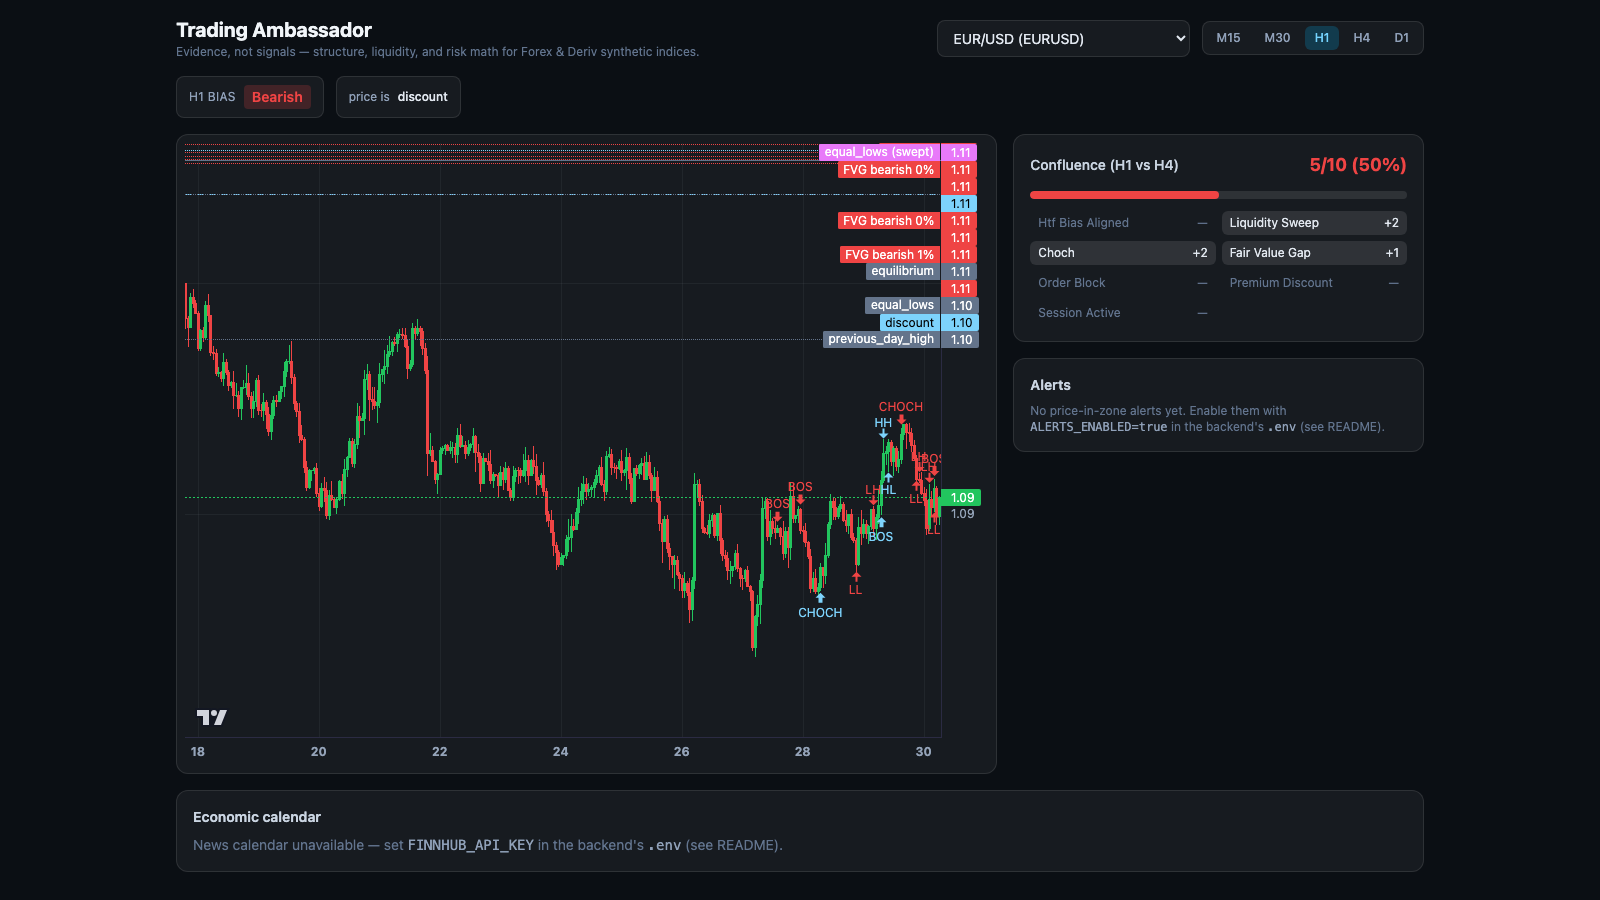
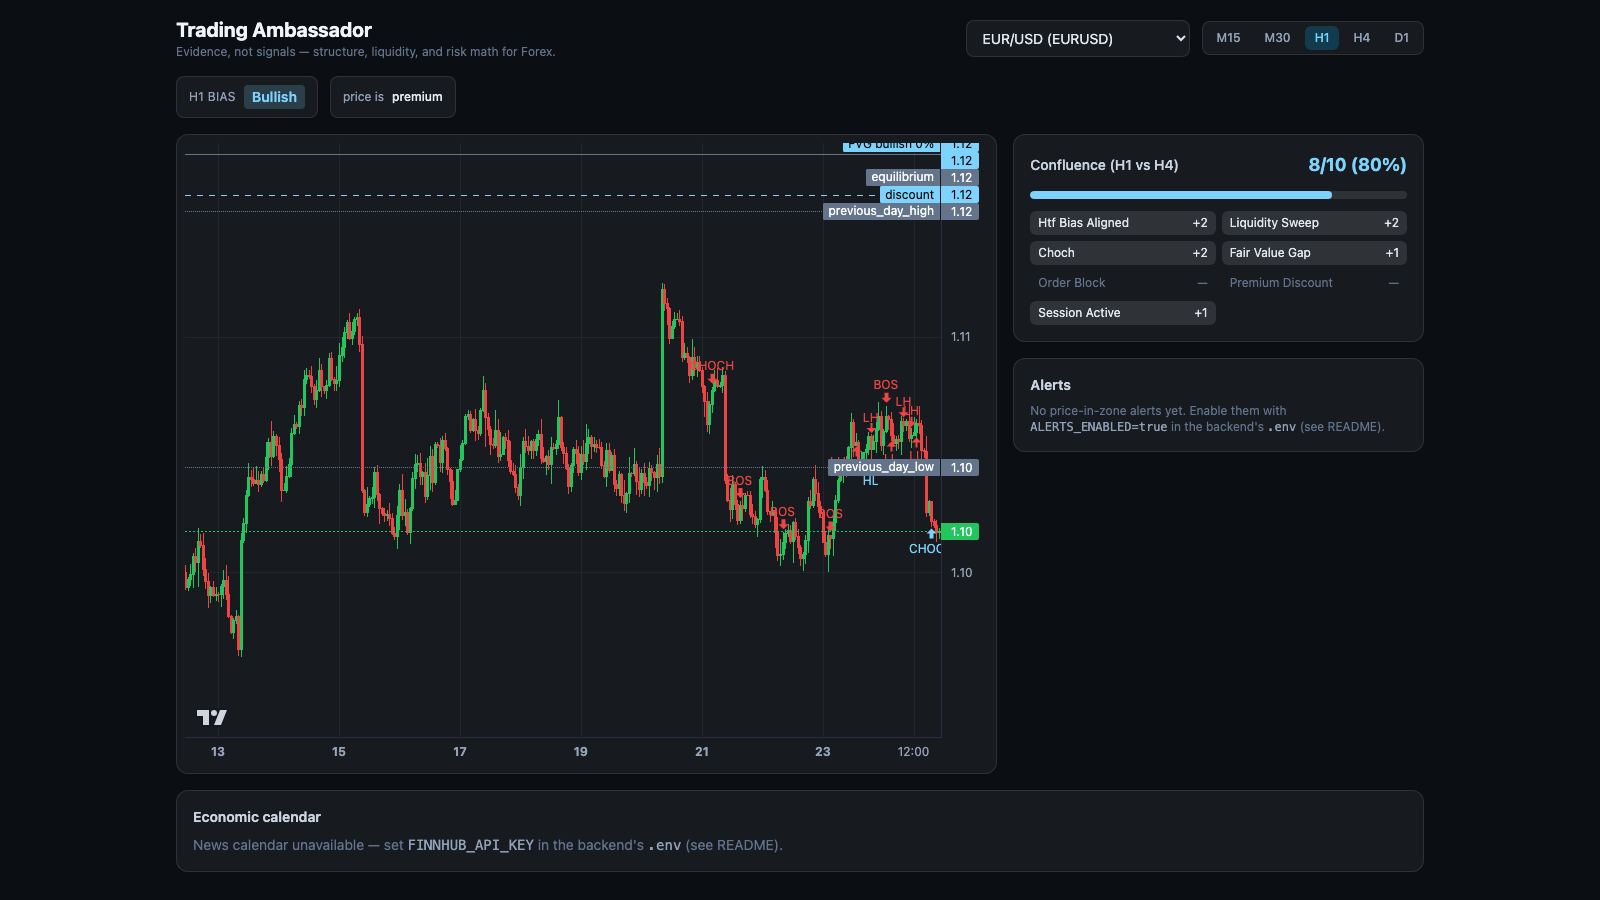
Refresh README and demo screenshots, document Deriv app_id reliability
Demo screenshots were stale (still showed the old "Forex & Deriv
synthetic indices" tagline from before the scope narrowed to Forex-only).
Replaced with fresh captures, added a phone-width screenshot, and
re-linked the plot_analysis.py demo image that had gone unreferenced.

Documented what actually caused the "Deriv API down" issue: the shared
public demo app_id (1089) gets overloaded from being used by countless
unrelated tutorials, not a real outage - registering a personal app_id is
the real fix. Added that note everywhere the app_id is mentioned
(config.py, .env.example, README) so it's not rediscovered from scratch
next time. Also documented LAN/phone access (vite.config.ts's
server.host: true) in the README, and fixed a few more leftover
synthetic-index mentions the earlier scope-narrowing pass missed.

diff --git a/backend/app/config.py b/backend/app/config.py
@@ -119,14 +119,16 @@ class Settings(BaseSettings):
     confluence_weight_session: int = 1
 
     # --- Market data provider ---------------------------------------------
-    # "mock" (default, zero setup) or "deriv" (live data via Deriv's public
-    # WebSocket API — covers both Forex majors and the synthetic indices,
-    # see app/market_data/deriv_provider.py). Chosen over MetaTrader5
-    # because MT5's official Python package is Windows-only.
+    # "mock" (default, zero setup) or "deriv" (live, real Forex data via
+    # Deriv's public WebSocket API, see app/market_data/deriv_provider.py).
+    # Chosen over MetaTrader5 because MT5's official Python package is
+    # Windows-only.
     market_data_provider: str = "mock"
     # Deriv's market-data endpoints (active_symbols, ticks_history) need no
     # API token, only an app_id. 1089 is Deriv's well-known public demo
-    # app_id; register your own at api.deriv.com for production use.
+    # app_id, but it's shared by countless unrelated tutorials/apps and can
+    # get rate-limited or blocked from that collective load - register
+    # your own free one at api.deriv.com for actual reliability.
     deriv_app_id: str = "1089"
     deriv_request_timeout: float = 10.0
 

diff --git a/backend/app/market_data/deriv_provider.py b/backend/app/market_data/deriv_provider.py
@@ -130,10 +130,10 @@ def _candles_to_frame(candles: list[dict]) -> pd.DataFrame:
             "high": [float(c["high"]) for c in candles],
             "low": [float(c["low"]) for c in candles],
             "close": [float(c["close"]) for c in candles],
-            # Deriv's synthetic-index/forex-CFD candles carry no real trade
-            # volume; keep the column (validate_candles doesn't require it)
-            # so callers never have to special-case a provider that's
-            # missing a column the interface promises.
+            # Deriv's forex-CFD candles carry no real trade volume; keep
+            # the column (validate_candles doesn't require it) so callers
+            # never have to special-case a provider that's missing a
+            # column the interface promises.
             "volume": [0.0] * len(candles),
         },
         index=timestamps,

diff --git a/backend/app/market_data/validation.py b/backend/app/market_data/validation.py
@@ -40,9 +40,9 @@ def validate_candles(df: pd.DataFrame, *, max_price_jump_pct: float = 0.25) -> V
 
     `max_price_jump_pct` is a sanity check for "extreme erroneous prices"
     (e.g. a bad tick reporting a 10x price spike) — real displacement
-    candles on volatile synthetic indices can be large, so this is
-    intentionally generous by default rather than flagging normal
-    volatility as bad data.
+    candles around major news (NFP, central bank surprises) can be large,
+    so this is intentionally generous by default rather than flagging
+    normal volatility as bad data.
     """
     result = ValidationResult()
 

diff --git a/README.md b/README.md
@@ -17,6 +17,11 @@ the person using it.
 bullish = light blue), a live confluence score, an economic-calendar
 panel, and price-in-zone alerts, all built on the API below.*
 
+<img src="docs/mobile-demo.png" alt="The same dashboard at phone width" width="320" />
+
+*Same app, same URL, no separate build — installable as a PWA (see
+"Install as an app" below).*
+
 ## Disclaimer
 
 Trading Ambassador provides analytical and educational information. It
@@ -240,6 +245,13 @@ is needed in dev. Works immediately against the mock provider; the news
 panel shows "unavailable" and the alerts panel shows "no alerts yet"
 until you configure Finnhub / turn on alerts (see below).
 
+**On your phone**, same WiFi network as this machine: `vite.config.ts`
+binds the dev server to all interfaces (`server.host: true`), so
+`http://<this-machine's-LAN-IP>:5173` works from any device on the same
+network — find the IP with `ipconfig getifaddr en0` on Mac. The `/api`
+proxy still talks to the backend over loopback on this machine either
+way, so no extra CORS setup is needed for that either.
+
 ### Install as an app
 
 The dashboard is a PWA (`vite-plugin-pwa`) — the same page at
@@ -343,6 +355,8 @@ Saves a PNG under `scripts/output/` by default; pass `--show` to also open
 an interactive window. Works with the mock fixture too (`--provider mock`,
 the default) if you'd rather not hit live Deriv data.
 
+![Annotated EURUSD H1 chart from plot_analysis.py: swings, BOS/CHoCH, order blocks, FVGs, liquidity levels](docs/analysis-demo.png)
+
 ## API endpoints
 
 | Endpoint | Purpose |
@@ -395,11 +409,13 @@ a public `app_id`, defaulted to Deriv's own demo id). Enable it with
   again once. Acceptable for a single-instance local deployment; would
   need moving that state into the DB for a multi-instance deployment.
 - No authentication/users yet — single-user local development only.
-- The MT5 EA (`mt5/`) hasn't been compiled or run — there's no MQL5
-  toolchain available in the environment it was written in. It's built
-  carefully against MetaQuotes' documented APIs, but MetaEditor's
-  compiler is the first real check it gets; see `mt5/README.md` for the
-  one spot most likely to need a fix.
+- Deriv's market-data endpoints don't need an API token, but the shared
+  public demo `app_id` (`1089`) this project defaults to is used by a huge
+  number of unrelated tutorials/apps and can get rate-limited or blocked
+  from that collective load — it's not a reliability guarantee. Registering
+  your own free `app_id` at [api.deriv.com](https://api.deriv.com) and
+  setting `DERIV_APP_ID` in `.env` is the real fix; `mock` is always the
+  safe fallback either way.
 
 ## License
 
